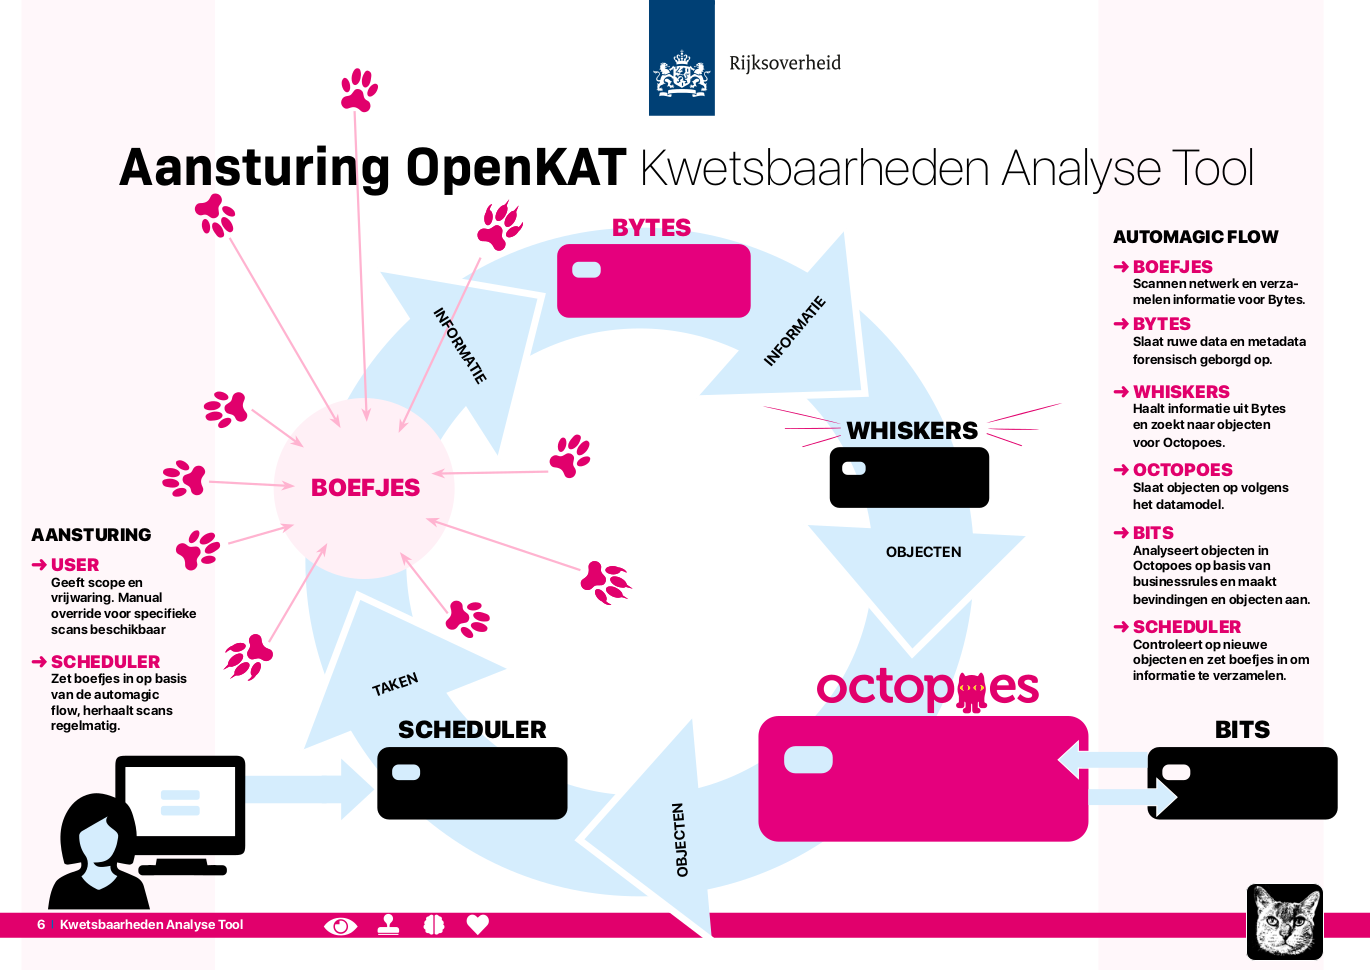
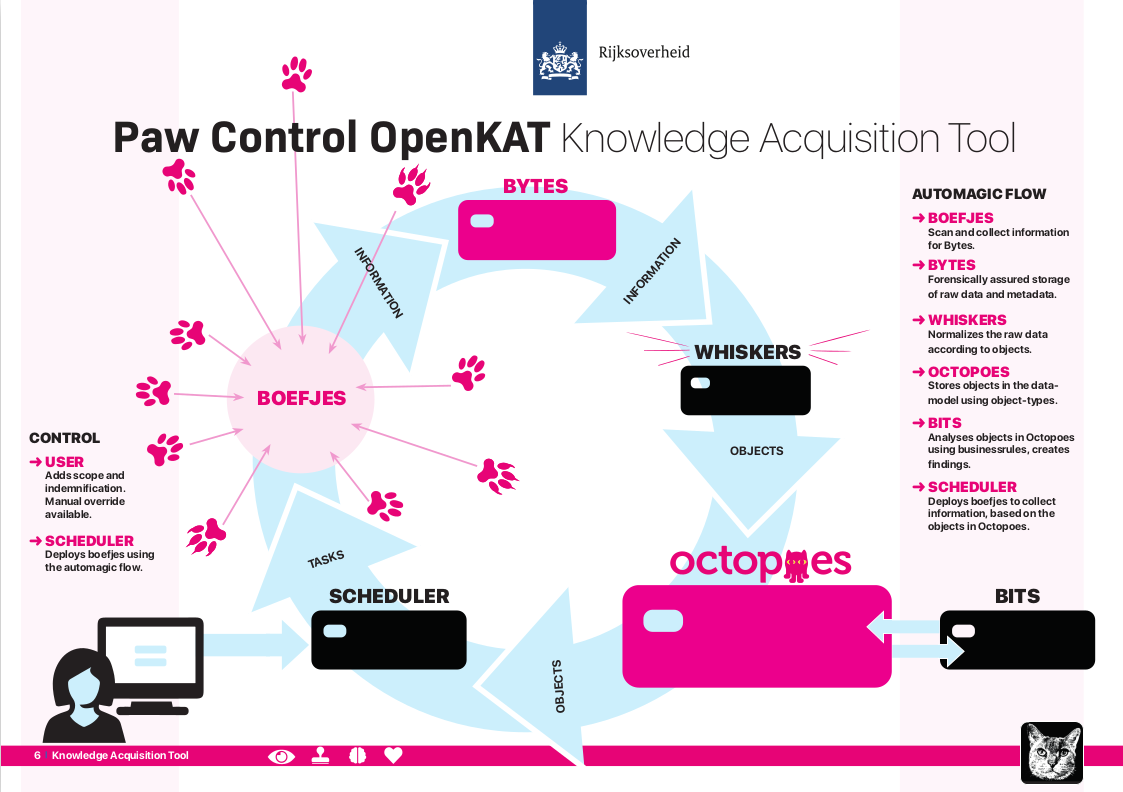
Translate Dutch images in docs to English (#128)

diff --git a/README.rst b/README.rst
@@ -27,7 +27,7 @@ The high level documentation on OpenKAT explains the purpose and operation of Op
 Technical documentation
 ***********************
 
-`The full documentation of OpenKAT can be found here <https://docs.openkat.nl>`_. It includes information such as:
+`The full documentation of OpenKAT can be found here: https://docs.openkat.nl <https://docs.openkat.nl>`_. It includes information such as:
 
 - Introduction to the system
 - Modules
